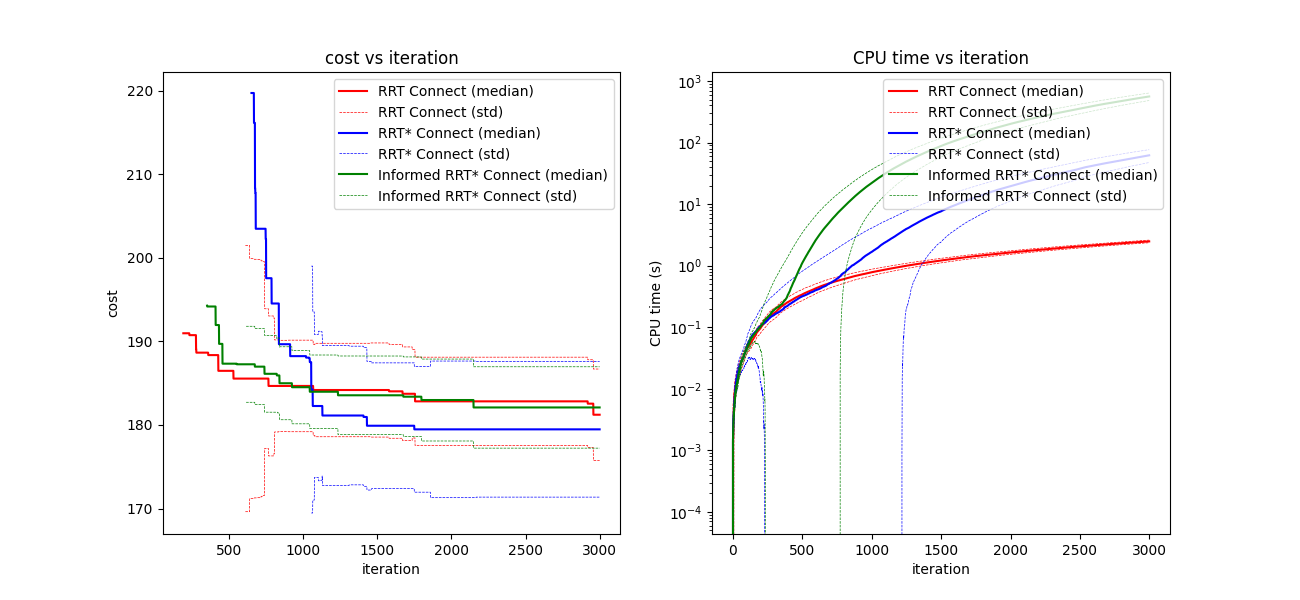
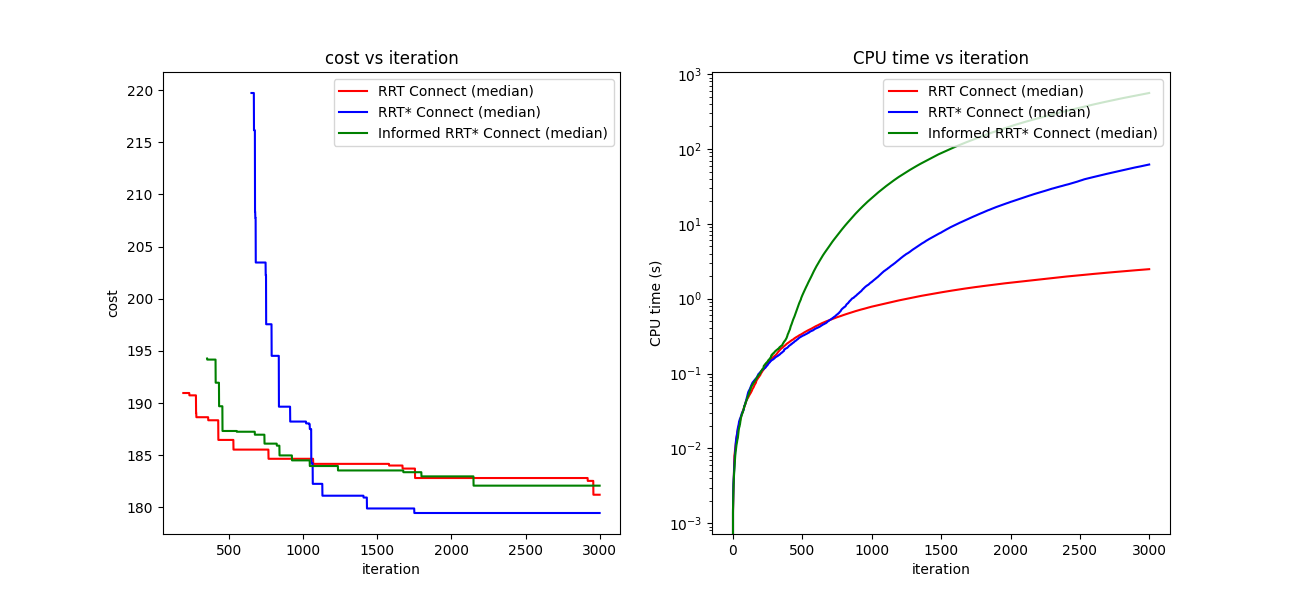
Added new plotting tools, Added new graphs for previously acquired data

diff --git a/comparison.py b/comparison.py
@@ -21,6 +21,8 @@ from rrt_algorithms.utilities.plotting import Plot, draw_map
 import matplotlib.pyplot as plt
 import matplotlib as mpl
 
+from results.view_results import plot_median_graphs
+
 mpl.use('Qt5Agg')
 
 # number of searches to run for statistical analysis
@@ -261,85 +263,9 @@ for k in range(N):
     plt.savefig(f"results/{type}/run_{k}_info.png")
     plt.close(k)
 
-fig = plt.figure(N, figsize=(13, 6))
-ax1, ax2 = fig.subplots(1, 2)
-
-all_iteration_c_bests_median = np.median(all_c_bests_padded, axis=0)[:, 1:]
-all_iteration_c_bests_std = np.std(all_c_bests_padded, axis=0)[:, 1:]
-
-start_index_conn, start_index_star_conn, start_index_inf_star_conn = \
-    np.sum(np.isinf(all_iteration_c_bests_median), axis=1).astype(int)
-
-ax1.set_title('cost vs iteration')
-ax1.set_xlabel('iteration')
-ax1.set_ylabel('cost')
-
-ax1.plot(list(range(start_index_conn, max_samples)),
-         all_iteration_c_bests_median[0, start_index_conn:],
-         label='RRT Connect (median)', color='red')
-ax1.plot(list(range(start_index_conn, max_samples)),
-         all_iteration_c_bests_median[0, start_index_conn:] + all_iteration_c_bests_std[0, start_index_conn:],
-         label='RRT Connect (std)', linestyle='dashed', color='red', linewidth=0.5)
-ax1.plot(list(range(start_index_conn, max_samples)),
-         all_iteration_c_bests_median[0, start_index_conn:] - all_iteration_c_bests_std[0, start_index_conn:],
-         linestyle='dashed', color='red', linewidth=0.5)
-
-ax1.plot(list(range(start_index_star_conn, max_samples)),
-         all_iteration_c_bests_median[1, start_index_star_conn:],
-         label='RRT* Connect (median)', color='blue')
-ax1.plot(list(range(start_index_star_conn, max_samples)),
-         all_iteration_c_bests_median[1, start_index_star_conn:] + all_iteration_c_bests_std[1, start_index_star_conn:],
-         label='RRT* Connect (std)', linestyle='dashed', color='blue', linewidth=0.5)
-ax1.plot(list(range(start_index_star_conn, max_samples)),
-         all_iteration_c_bests_median[1, start_index_star_conn:] - all_iteration_c_bests_std[1, start_index_star_conn:],
-         linestyle='dashed', color='blue', linewidth=0.5)
-
-ax1.plot(list(range(start_index_inf_star_conn, max_samples)),
-         all_iteration_c_bests_median[2, start_index_inf_star_conn:],
-         label='Informed RRT* Connect (median)', color='green')
-ax1.plot(list(range(start_index_inf_star_conn, max_samples)),
-         all_iteration_c_bests_median[2, start_index_inf_star_conn:] + all_iteration_c_bests_std[2,
-                                                                       start_index_inf_star_conn:],
-         label='Informed RRT* Connect (std)', linestyle='dashed', color='green', linewidth=0.5)
-ax1.plot(list(range(start_index_inf_star_conn, max_samples)),
-         all_iteration_c_bests_median[2, start_index_inf_star_conn:] - all_iteration_c_bests_std[2,
-                                                                       start_index_inf_star_conn:],
-         linestyle='dashed', color='green', linewidth=0.5)
-
-all_iteration_cpu_times_median = np.median(all_cpu_times_padded, axis=0)[:, 1:]
-all_iteration_cpu_times_std = np.std(all_cpu_times_padded, axis=0)[:, 1:]
-
-ax2.set_title('CPU time vs iteration')
-ax2.set_xlabel('iteration')
-ax2.set_ylabel('CPU time (s)')
-
-ax2.semilogy(list(range(max_samples)), all_iteration_cpu_times_median[0],
-             label='RRT Connect (median)', color='red')
-ax2.semilogy(list(range(max_samples)), all_iteration_cpu_times_median[0] + all_iteration_cpu_times_std[0],
-             label='RRT Connect (std)', linestyle='dashed', color='red', linewidth=0.5)
-ax2.semilogy(list(range(max_samples)), all_iteration_cpu_times_median[0] - all_iteration_cpu_times_std[0],
-             linestyle='dashed', color='red', linewidth=0.5)
-
-ax2.semilogy(list(range(max_samples)), all_iteration_cpu_times_median[1],
-             label='RRT* Connect (median)', color='blue')
-ax2.semilogy(list(range(max_samples)), all_iteration_cpu_times_median[1] + all_iteration_cpu_times_std[1],
-             label='RRT* Connect (std)', linestyle='dashed', color='blue', linewidth=0.5)
-ax2.semilogy(list(range(max_samples)), all_iteration_cpu_times_median[1] - all_iteration_cpu_times_std[1],
-             linestyle='dashed', color='blue', linewidth=0.5)
-
-ax2.semilogy(list(range(max_samples)), all_iteration_cpu_times_median[2],
-             label='Informed RRT* Connect (median)', color='green')
-ax2.semilogy(list(range(max_samples)), all_iteration_cpu_times_median[2] + all_iteration_cpu_times_std[2],
-             label='Informed RRT* Connect (std)', linestyle='dashed', color='green', linewidth=0.5)
-ax2.semilogy(list(range(max_samples)), all_iteration_cpu_times_median[2] - all_iteration_cpu_times_std[2],
-             linestyle='dashed', color='green', linewidth=0.5)
-
-ax1.legend(loc="upper right")
-ax2.legend(loc="upper right")
-
-plt.savefig(f"results/{type}/all_run_info.png")
-# plt.show()
-plt.close(N)
+# Plotting and saving graphs
+plot_median_graphs(type, max_samples, all_c_bests_padded, all_cpu_times_padded)
+plot_median_graphs(type, max_samples, all_c_bests_padded, all_cpu_times_padded, plot_std=True)
 
 # Save data
 np.savez_compressed(f"results/{type}/data.npz",
@@ -355,56 +281,33 @@ iterations_of_first_solutions_medians, iterations_of_first_solutions_std = \
 path_costs_medians, path_costs_std = np.median(path_costs, axis=0), np.std(path_costs, axis=0)
 tree_densities_medians, tree_densities_std = np.median(tree_densities, axis=0), np.std(tree_densities, axis=0)
 
-print(
-    f"Results for {N} run(s) of {max_samples} samples with:\n"
-    f"  type: {type}\n"
-    f"  search space: X_dimensions={X_dimensions.flatten()}, x_init={x_init}, x_goal={x_goal}\n"
-    f"  parameters: q={q}, r={r}, rewire_count={rewire_count}, prc={prc}, n={n}\n\n"
-    f"Success Rate:\n"
-    f"  RRT Connect: {success_rates[0]}\n"
-    f"  RRT* Connect: {success_rates[1]}\n"
-    f"  Informed RRT* Connect: {success_rates[2]}\n\n"
-    f"Runtime:\n"
-    f"  RRT Connect: {runtimes_medians[0]} ± {runtimes_std[0]}\n"
-    f"  RRT* Connect: {runtimes_medians[1]} ± {runtimes_std[1]}\n"
-    f"  Informed RRT* Connect: {runtimes_medians[2]} ± {runtimes_std[2]}\n\n"
-    f"Iterations of First Solution:\n"
-    f"  RRT Connect: {iterations_of_first_solutions_medians[0]} ± {iterations_of_first_solutions_std[0]}\n"
-    f"  RRT* Connect: {iterations_of_first_solutions_medians[1]} ± {iterations_of_first_solutions_std[1]}\n"
-    f"  Informed RRT* Connect: {iterations_of_first_solutions_medians[2]} ± {iterations_of_first_solutions_std[2]}\n\n"
-    f"Path Cost:\n"
-    f"  RRT Connect: {path_costs_medians[0]} ± {path_costs_std[0]}\n"
-    f"  RRT* Connect: {path_costs_medians[1]} ± {path_costs_std[1]}\n"
-    f"  Informed RRT* Connect: {path_costs_medians[2]} ± {path_costs_std[2]}\n\n"
-    f"Tree Densities:\n"
-    f"  RRT Connect: (start_tree={tree_densities_medians[0, 0]} ± {tree_densities_std[0, 0]}, goal_tree={tree_densities_medians[0, 1]} ± {tree_densities_std[0, 1]}, total={tree_densities_medians[0, 2]} ± {tree_densities_std[0, 2]}))\n"
-    f"  RRT* Connect: (start_tree={tree_densities_medians[1, 0]} ± {tree_densities_std[1, 0]}, goal_tree={tree_densities_medians[1, 1]} ± {tree_densities_std[1, 1]}, total={tree_densities_medians[1, 2]} ± {tree_densities_std[1, 2]}))\n"
-    f"  Informed RRT* Connect: (start_tree={tree_densities_medians[2, 0]} ± {tree_densities_std[2, 0]}, goal_tree={tree_densities_medians[2, 1]} ± {tree_densities_std[2, 1]}, total={tree_densities_medians[2, 2]} ± {tree_densities_std[2, 2]}))\n")
+datastring = (f"Results for {N} run(s) of {max_samples} samples with:\n"
+              f"  type: {type}\n"
+              f"  search space: X_dimensions={X_dimensions.flatten()}, x_init={x_init}, x_goal={x_goal}\n"
+              f"  parameters: q={q}, r={r}, rewire_count={rewire_count}, prc={prc}, n={n}\n\n"
+              f"Success Rate:\n"
+              f"  RRT Connect: {success_rates[0]}\n"
+              f"  RRT* Connect: {success_rates[1]}\n"
+              f"  Informed RRT* Connect: {success_rates[2]}\n\n"
+              f"Runtime:\n"
+              f"  RRT Connect: {runtimes_medians[0]} ± {runtimes_std[0]}\n"
+              f"  RRT* Connect: {runtimes_medians[1]} ± {runtimes_std[1]}\n"
+              f"  Informed RRT* Connect: {runtimes_medians[2]} ± {runtimes_std[2]}\n\n"
+              f"Iterations of First Solution:\n"
+              f"  RRT Connect: {iterations_of_first_solutions_medians[0]} ± {iterations_of_first_solutions_std[0]}\n"
+              f"  RRT* Connect: {iterations_of_first_solutions_medians[1]} ± {iterations_of_first_solutions_std[1]}\n"
+              f"  Informed RRT* Connect: {iterations_of_first_solutions_medians[2]} ± {iterations_of_first_solutions_std[2]}\n\n"
+              f"Path Cost:\n"
+              f"  RRT Connect: {path_costs_medians[0]} ± {path_costs_std[0]}\n"
+              f"  RRT* Connect: {path_costs_medians[1]} ± {path_costs_std[1]}\n"
+              f"  Informed RRT* Connect: {path_costs_medians[2]} ± {path_costs_std[2]}\n\n"
+              f"Tree Densities:\n"
+              f"  RRT Connect: (start_tree={tree_densities_medians[0, 0]} ± {tree_densities_std[0, 0]}, goal_tree={tree_densities_medians[0, 1]} ± {tree_densities_std[0, 1]}, total={tree_densities_medians[0, 2]} ± {tree_densities_std[0, 2]}))\n"
+              f"  RRT* Connect: (start_tree={tree_densities_medians[1, 0]} ± {tree_densities_std[1, 0]}, goal_tree={tree_densities_medians[1, 1]} ± {tree_densities_std[1, 1]}, total={tree_densities_medians[1, 2]} ± {tree_densities_std[1, 2]}))\n"
+              f"  Informed RRT* Connect: (start_tree={tree_densities_medians[2, 0]} ± {tree_densities_std[2, 0]}, goal_tree={tree_densities_medians[2, 1]} ± {tree_densities_std[2, 1]}, total={tree_densities_medians[2, 2]} ± {tree_densities_std[2, 2]}))\n")
+
+print(datastring)
 
 # Save statistics
 with open(f"results/{type}/statistics.txt", "w") as file:
-    file.write(
-        f"Results for {N} run(s) of {max_samples} samples with:\n"
-        f"  type: {type}\n"
-        f"  search space: X_dimensions={X_dimensions.flatten()}, x_init={x_init}, x_goal={x_goal}\n"
-        f"  parameters: q={q}, r={r}, rewire_count={rewire_count}, prc={prc}, n={n}\n\n"
-        f"Success Rate:\n"
-        f"  RRT Connect: {success_rates[0]}\n"
-        f"  RRT* Connect: {success_rates[1]}\n"
-        f"  Informed RRT* Connect: {success_rates[2]}\n\n"
-        f"Runtime:\n"
-        f"  RRT Connect: {runtimes_medians[0]} ± {runtimes_std[0]}\n"
-        f"  RRT* Connect: {runtimes_medians[1]} ± {runtimes_std[1]}\n"
-        f"  Informed RRT* Connect: {runtimes_medians[2]} ± {runtimes_std[2]}\n\n"
-        f"Iterations of First Solution:\n"
-        f"  RRT Connect: {iterations_of_first_solutions_medians[0]} ± {iterations_of_first_solutions_std[0]}\n"
-        f"  RRT* Connect: {iterations_of_first_solutions_medians[1]} ± {iterations_of_first_solutions_std[1]}\n"
-        f"  Informed RRT* Connect: {iterations_of_first_solutions_medians[2]} ± {iterations_of_first_solutions_std[2]}\n\n"
-        f"Path Cost:\n"
-        f"  RRT Connect: {path_costs_medians[0]} ± {path_costs_std[0]}\n"
-        f"  RRT* Connect: {path_costs_medians[1]} ± {path_costs_std[1]}\n"
-        f"  Informed RRT* Connect: {path_costs_medians[2]} ± {path_costs_std[2]}\n\n"
-        f"Tree Densities:\n"
-        f"  RRT Connect: (start_tree={tree_densities_medians[0, 0]} ± {tree_densities_std[0, 0]}, goal_tree={tree_densities_medians[0, 1]} ± {tree_densities_std[0, 1]}, total={tree_densities_medians[0, 2]} ± {tree_densities_std[0, 2]}))\n"
-        f"  RRT* Connect: (start_tree={tree_densities_medians[1, 0]} ± {tree_densities_std[1, 0]}, goal_tree={tree_densities_medians[1, 1]} ± {tree_densities_std[1, 1]}, total={tree_densities_medians[1, 2]} ± {tree_densities_std[1, 2]}))\n"
-        f"  Informed RRT* Connect: (start_tree={tree_densities_medians[2, 0]} ± {tree_densities_std[2, 0]}, goal_tree={tree_densities_medians[2, 1]} ± {tree_densities_std[2, 1]}, total={tree_densities_medians[2, 2]} ± {tree_densities_std[2, 2]}))\n")
+    file.write(datastring)

diff --git a/results/view_results.py b/results/view_results.py
@@ -1,0 +1,109 @@
+import matplotlib.pyplot as plt
+import numpy as np
+
+def plot_median_graphs(type, max_samples, all_c_bests_padded, all_cpu_times_padded, plot_std=False, show=False, save=True, figname="all_info"):
+    fig = plt.figure(figname, figsize=(13, 6))
+    ax1, ax2 = fig.subplots(1, 2)
+
+    all_iteration_c_bests_median = np.median(all_c_bests_padded, axis=0)[:, 1:]
+    all_iteration_c_bests_std = np.std(all_c_bests_padded, axis=0)[:, 1:]
+
+    start_index_conn, start_index_star_conn, start_index_inf_star_conn = \
+        np.sum(np.isinf(all_iteration_c_bests_median), axis=1).astype(int)
+
+    ax1.set_title('cost vs iteration')
+    ax1.set_xlabel('iteration')
+    ax1.set_ylabel('cost')
+
+    ax1.plot(list(range(start_index_conn, max_samples)),
+             all_iteration_c_bests_median[0, start_index_conn:],
+             label='RRT Connect (median)', color='red')
+    if plot_std:
+        ax1.plot(list(range(start_index_conn, max_samples)),
+                 all_iteration_c_bests_median[0, start_index_conn:] + all_iteration_c_bests_std[0, start_index_conn:],
+                 label='RRT Connect (std)', linestyle='dashed', color='red', linewidth=0.5)
+        ax1.plot(list(range(start_index_conn, max_samples)),
+                 all_iteration_c_bests_median[0, start_index_conn:] - all_iteration_c_bests_std[0, start_index_conn:],
+                 linestyle='dashed', color='red', linewidth=0.5)
+
+    ax1.plot(list(range(start_index_star_conn, max_samples)),
+             all_iteration_c_bests_median[1, start_index_star_conn:],
+             label='RRT* Connect (median)', color='blue')
+    if plot_std:
+        ax1.plot(list(range(start_index_star_conn, max_samples)),
+                 all_iteration_c_bests_median[1, start_index_star_conn:] + all_iteration_c_bests_std[1, start_index_star_conn:],
+                 label='RRT* Connect (std)', linestyle='dashed', color='blue', linewidth=0.5)
+        ax1.plot(list(range(start_index_star_conn, max_samples)),
+                 all_iteration_c_bests_median[1, start_index_star_conn:] - all_iteration_c_bests_std[1, start_index_star_conn:],
+                 linestyle='dashed', color='blue', linewidth=0.5)
+
+    ax1.plot(list(range(start_index_inf_star_conn, max_samples)),
+             all_iteration_c_bests_median[2, start_index_inf_star_conn:],
+             label='Informed RRT* Connect (median)', color='green')
+    if plot_std:
+        ax1.plot(list(range(start_index_inf_star_conn, max_samples)),
+                 all_iteration_c_bests_median[2, start_index_inf_star_conn:] + all_iteration_c_bests_std[2,
+                                                                               start_index_inf_star_conn:],
+                 label='Informed RRT* Connect (std)', linestyle='dashed', color='green', linewidth=0.5)
+        ax1.plot(list(range(start_index_inf_star_conn, max_samples)),
+                 all_iteration_c_bests_median[2, start_index_inf_star_conn:] - all_iteration_c_bests_std[2,
+                                                                               start_index_inf_star_conn:],
+                 linestyle='dashed', color='green', linewidth=0.5)
+
+    all_iteration_cpu_times_median = np.median(all_cpu_times_padded, axis=0)[:, 1:]
+    all_iteration_cpu_times_std = np.std(all_cpu_times_padded, axis=0)[:, 1:]
+
+    ax2.set_title('CPU time vs iteration')
+    ax2.set_xlabel('iteration')
+    ax2.set_ylabel('CPU time (s)')
+
+    ax2.semilogy(list(range(max_samples)), all_iteration_cpu_times_median[0],
+                 label='RRT Connect (median)', color='red')
+    if plot_std:
+        ax2.semilogy(list(range(max_samples)), all_iteration_cpu_times_median[0] + all_iteration_cpu_times_std[0],
+                     label='RRT Connect (std)', linestyle='dashed', color='red', linewidth=0.5)
+        ax2.semilogy(list(range(max_samples)), all_iteration_cpu_times_median[0] - all_iteration_cpu_times_std[0],
+                     linestyle='dashed', color='red', linewidth=0.5)
+
+    ax2.semilogy(list(range(max_samples)), all_iteration_cpu_times_median[1],
+                 label='RRT* Connect (median)', color='blue')
+    if plot_std:
+        ax2.semilogy(list(range(max_samples)), all_iteration_cpu_times_median[1] + all_iteration_cpu_times_std[1],
+                     label='RRT* Connect (std)', linestyle='dashed', color='blue', linewidth=0.5)
+        ax2.semilogy(list(range(max_samples)), all_iteration_cpu_times_median[1] - all_iteration_cpu_times_std[1],
+                     linestyle='dashed', color='blue', linewidth=0.5)
+
+    ax2.semilogy(list(range(max_samples)), all_iteration_cpu_times_median[2],
+                 label='Informed RRT* Connect (median)', color='green')
+    if plot_std:
+        ax2.semilogy(list(range(max_samples)), all_iteration_cpu_times_median[2] + all_iteration_cpu_times_std[2],
+                     label='Informed RRT* Connect (std)', linestyle='dashed', color='green', linewidth=0.5)
+        ax2.semilogy(list(range(max_samples)), all_iteration_cpu_times_median[2] - all_iteration_cpu_times_std[2],
+                     linestyle='dashed', color='green', linewidth=0.5)
+
+    ax1.legend(loc="upper right")
+    ax2.legend(loc="upper right")
+
+    if show:
+        plt.show()
+    if save:
+        plt.savefig("results/" * (not __name__=="__main__") + f"{type}/all_run_info" + plot_std * "_with_std" + ".png")
+    plt.close(figname)
+
+def plot_macro(type, plot_std=False, show=False):
+
+    all_data_cluttered = np.load(f"{type}/data.npz")
+    all_c_bests_cluttered_padded, all_cpu_times_cluttered_padded = all_data_cluttered["c_bests"], all_data_cluttered["cpu_times"]
+
+    max_samples = 0
+    with open(f"{type}/statistics.txt", "r") as f:
+        max_samples = int(f.readline().split(" ")[5])
+
+    plot_median_graphs(type,max_samples, all_c_bests_cluttered_padded, all_cpu_times_cluttered_padded,
+                       plot_std=plot_std, figname="all_info", show=show)
+
+if __name__ == "__main__":
+    plot_macro("cluttered", plot_std=True)
+    plot_macro("cluttered", plot_std=False)
+    plot_macro("single", plot_std=True)
+    plot_macro("single", plot_std=False)
